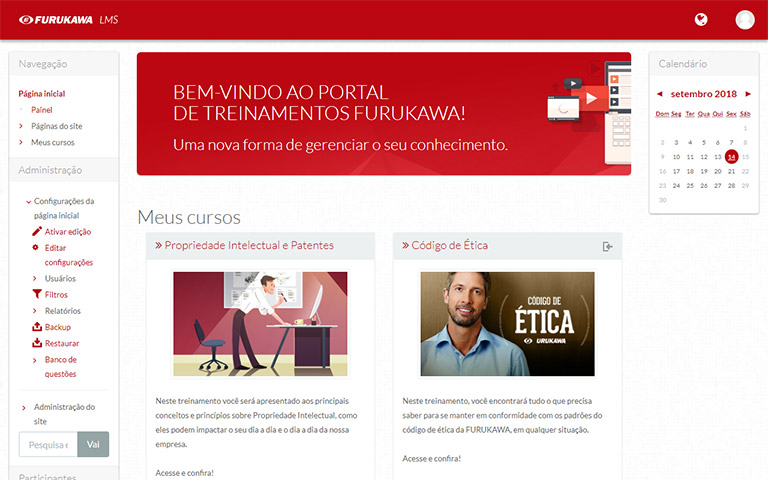
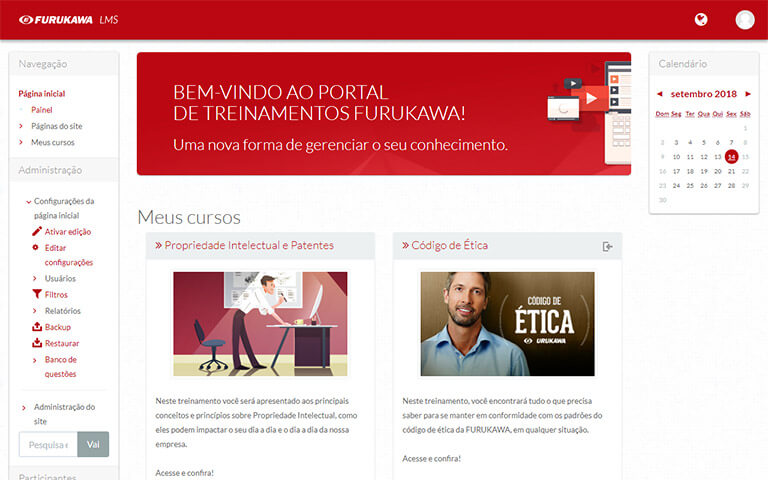
optmize images

diff --git a/src/app/containers/About.js b/src/app/containers/About.js
@@ -1,5 +1,5 @@
-import React, {Component} from 'react';
-import {Container, Row, Col} from 'reactstrap';
+import React, { Component } from 'react';
+import { Container, Row, Col } from 'reactstrap';
 import TweenLite from 'gsap/TweenLite';
 import Expo from 'gsap';
 import 'gsap/CSSPlugin';
@@ -35,13 +35,13 @@ export default class About extends Component {
               <h2 className="section__title text-right">About</h2>
               <hr className="title__separator mr-0" />
               <p className="text-justify">
-                I’m a simple person who enjoys simple things of life. A good coffee
-                and a good music, and it’s all set to work. If I’m not coding,
-                studying or researching better ways to work, I’m cooking,
-                preparing a espresso or spending free time with my wife and
-                daughter. I’m also a problem-solver/fixer type of guy. I love to
-                fix things, repair and help people. It doesn’t matter the
-                subject, I’m always ready to give a hand.
+                I’m a simple person who enjoys simple things of life. A good
+                coffee and a good music, and it’s all set to work. If I’m not
+                coding, studying or researching better ways to work, I’m
+                cooking, preparing a espresso or spending free time with my wife
+                and daughter. I’m also a problem-solver/fixer type of guy. I
+                love to fix things, repair and help people. It doesn’t matter
+                the subject, I’m always ready to give a hand.
                 <br />
                 <br />I started in the tech world at the age of 8, on a Intel
                 80386, coding in Microsoft’s BASIC. My first job was at the age
@@ -58,29 +58,23 @@ export default class About extends Component {
                 brands, such as Kraft Foods, Volvo Motors, HSBC Bank, Boticário
                 Group, and many others, I developed many different disciplines
                 and skills. I developed from presentations, Web-based
-                application, e-Learnings, to small Web apps. When I left this
-                job, I was the Lead Web Developer.
+                application, e-Learnings, to Web Apps. When I left this job, I
+                was the Lead Web Developer.
                 <br />
                 <br />
                 In 2009 I started my own company with another two designers as
-                partners, UNBOX Design Studio. Our main goal was to deliver high
-                quality and user-oriented solutions for design and online
-                learning. During almost 9 years, and thousand of successful
-                projects, I developed my career in many ways. Having your own
-                company changes you, for the better. It changed me from a simple
-                Developer to a professional who understands the client needs and
-                budget, B2B, employee’s needs, human resources, project
-                management, entrepreneurship, finances, accounting, business
-                laws, tax laws, etc.
+                partners. Our main goal was to deliver high quality and
+                user-oriented solutions for design and online learning. During
+                almost 8 years, and thousand of successful projects, I developed
+                my career in many ways. Having your own company changes you, for
+                the better. It changed me from a Web Developer to a professional
+                who understands the client needs and budget, B2B, human
+                resources, project management, entrepreneurship, finances,
+                accounting, business laws, etc.
                 <br />
                 <br />
-                But the time to move on came to me in 2017 and we closed the
-                company. But the learning and will to do new things grows
-                bigger.
-                <br />
-                <br />
-                Currently, I work as an Educational Tech Consultant and
-                front-end developer in Corporate E-learning market.
+                Currently, I work as a frelance Front-end Web Developer in
+                Curitiba/PR, Brazil.
               </p>
             </Col>
           </Row>

diff --git a/src/app/containers/Resume.js b/src/app/containers/Resume.js
@@ -40,8 +40,8 @@ export default class Resume extends Component {
           <Row className="text-justify">
             <Col xs="12" sm="6" className="">
               <p>
-                I've been creating web and learning content for almost 18 years
-                now. I worked on many projects over these years along big
+                I&#x27;ve been creating web and learning content for almost 18
+                years now. I worked on many projects over these years along big
                 companies like Kraft Foods Brasil, Electrolux Sweden, Volvo
                 Motors, HSBC Bank, Furukawa Electric, GP Strategies, Metlife
                 Brasil, O Boticário and many others.
@@ -49,10 +49,10 @@ export default class Resume extends Component {
             </Col>
             <Col xs="12" sm="6" className="">
               <p>
-                As a tech enthusiast and an eager learner, I'm always looking
-                for new tools and ways to improve mine and team's quality of
-                life. If I need to learn something new, no problem, just give
-                some time and I will do my best.
+                As a tech enthusiast and an eager learner, I&#x27;m always
+                looking for new tools and ways to improve mine and team&#x27;s
+                quality of life. If I need to learn something new, no problem,
+                just give some time and I will do my best.
               </p>
             </Col>
           </Row>

diff --git a/src/app/components/WorkItem.js b/src/app/components/WorkItem.js
@@ -1,5 +1,6 @@
 import React, { Component } from 'react';
 import { Button, Row, Col } from 'reactstrap';
+import AOS from 'aos';
 
 import './WorkItem.scss';
 import TagList from './TagList';
@@ -7,16 +8,23 @@ import TagList from './TagList';
 export default class WorkItem extends Component {
   constructor(props) {
     super(props);
+
+    AOS.init();
   }
 
   render() {
     const { id, thumb, title, summary, tags, isFlipped, onSelect } = this.props;
 
     return (
-      <Row noGutters className="work-item">
+      <Row
+        noGutters
+        className="work-item"
+        data-aos={'fade-' + (isFlipped ? 'left' : 'right')}
+        data-aos-anchor-placement="bottom-bottom"
+      >
         <Col md="6">
           <div className="work-item__thumb">
-            <a href="#" onClick={(evt) => onSelect(evt, id)}>
+            <a href="#" onClick={evt => onSelect(evt, id)}>
               <img src={thumb} alt={title} />
             </a>
           </div>
@@ -37,7 +45,7 @@ export default class WorkItem extends Component {
               className="work-item__btn"
               size="sm"
               color="secondary"
-              onClick={(evt) => onSelect(evt, id)}
+              onClick={evt => onSelect(evt, id)}
             >
               MORE INFO
             </Button>

diff --git a/src/app/index.js b/src/app/index.js
@@ -5,10 +5,10 @@ import App from './App';
 
 // IMAGE BULK LOAD
 var cache = {};
-function importAll (r) {
-  r.keys().forEach(key => cache[key] = r(key));
+function importAll(r) {
+  r.keys().forEach(key => (cache[key] = r(key)));
 }
-importAll(require.context('./img/', true, /\.(png|jp(e*)g|svg)$/i));
+importAll(require.context('./img/', true, /\.(ico|png|jp(e*)g|svg)$/));
 // -----------
 
 ReactDOM.render(<App />, document.getElementById('app'));

diff --git a/src/app/index.html b/src/app/index.html
@@ -2,10 +2,11 @@
 <html lang="en">
 
 <head>
+  <title>Davi Naizer</title>
+
   <meta charset="UTF-8">
   <meta name="viewport" content="width=device-width, initial-scale=1.0">
   <meta http-equiv="X-UA-Compatible" content="ie=edge">
-  <title>Naizer's Portfolio</title>
 
   <link rel="shortcut icon" href="img/favicon.ico">
   <link rel="stylesheet" href="https://unpkg.com/aos@next/dist/aos.css" />

diff --git a/src/app/containers/Cover.js b/src/app/containers/Cover.js
@@ -1,5 +1,7 @@
 import React, { Component } from 'react';
+import PropTypes from 'prop-types';
 import { Container, Row, Col, Button } from 'reactstrap';
+
 import TweenLite from 'gsap/TweenLite';
 import Expo from 'gsap';
 import 'gsap/CSSPlugin';
@@ -57,3 +59,7 @@ export default class Cover extends Component {
     );
   }
 }
+
+Cover.propTypes = {
+  onSelect: PropTypes.func,
+};

diff --git a/src/app/components/LinkList.js b/src/app/components/LinkList.js
@@ -1,6 +1,7 @@
 // FSC
 import React from 'react';
 import { Button } from 'reactstrap';
+import PropTypes from 'prop-types';
 
 import './LinkList.scss';
 
@@ -15,3 +16,8 @@ const LinkList = ({ items }) => (
 );
 
 export default LinkList;
+
+LinkList.propTypes = {
+  items: PropTypes.array
+};
+

diff --git a/src/app/containers/Navbar.js b/src/app/containers/Navbar.js
@@ -1,4 +1,5 @@
 import React, { Component } from 'react';
+import PropTypes from 'prop-types';
 import {
   Collapse,
   Navbar,
@@ -75,3 +76,7 @@ export default class TopNav extends Component {
     );
   }
 }
+
+TopNav.propTypes = {
+  onSelect: PropTypes.func,
+};

diff --git a/src/app/containers/Work.js b/src/app/containers/Work.js
@@ -46,7 +46,7 @@ export default class Work extends Component {
     evt.preventDefault();
 
     document.body.classList.add('modal-open');
-    this.setState(prevState => ({
+    this.setState((prevState) => ({
       currentId: +id,
       isOpen: true,
     }));
